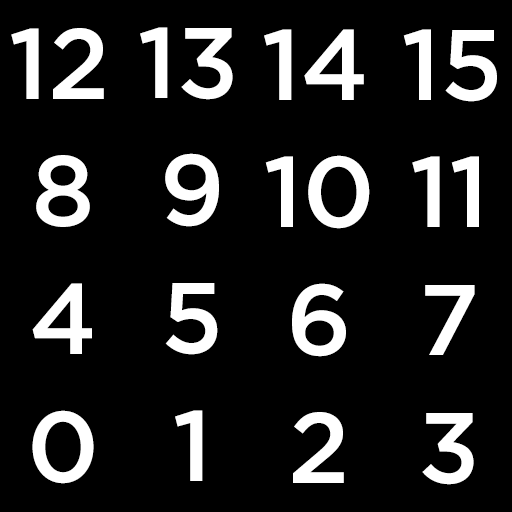
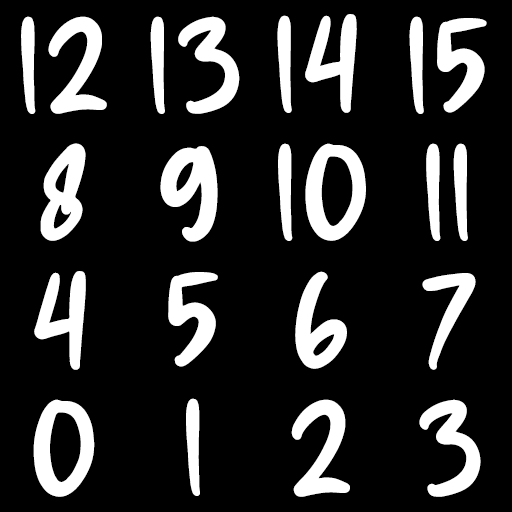
new materials and textures

diff --git a/src/lib/components/cards/Cards.svelte b/src/lib/components/cards/Cards.svelte
@@ -1,12 +1,13 @@
 <script lang="ts">
 	import { T, useTask } from '@threlte/core';
-	import { type ThrelteGltf } from '@threlte/extras';
+	import { useTexture, type ThrelteGltf } from '@threlte/extras';
 	import { cardState, gameState } from '$lib/state.svelte';
 	import { movingBehaviour } from './cardBehaviour';
 	import type { Card } from '$lib/types';
 
 	import ParallaxMaterial from '../materials/paralax/ParallaxMaterial.svelte';
 	import NumbersMaterial from '../materials/numbers/NumbersMaterial.svelte';
+	import CardMaterial from '../materials/card/CardMaterial.svelte';
 
 	import {
 		BatchedMesh,
@@ -35,7 +36,7 @@
 	const instancedBackgrounds = new InstancedMesh(gltf.nodes.Background.geometry, undefined, 100);
 	instancedBackgrounds.instanceMatrix.setUsage(DynamicDrawUsage);
 
-	const instancedNumbers = new InstancedMesh(new PlaneGeometry(0.3, 0.3), undefined, 100);
+	const instancedNumbers = new InstancedMesh(new PlaneGeometry(0.17, 0.17), undefined, 100);
 	instancedNumbers.instanceMatrix.setUsage(DynamicDrawUsage);
 	const numbersFloat = new Float32Array(100);
 	const numbersBufferAttribute = new InstancedBufferAttribute(numbersFloat, 1);
@@ -66,19 +67,24 @@
 		batched.addInstance(4);
 	}
 
+	batched.addGeometry(gltf.nodes.Heart.geometry);
+	for (let i = 0; i < 10; i++) {
+		batched.addInstance(5);
+	}
+
 	useTask(
 		'cards-task',
 		(delta) => {
 			temp = cardState.cards.concat();
-			temp.forEach((card, index, array) => {
+			cardState.cards.forEach((card, index, array) => {
 				card = movingBehaviour(card, delta);
 				if (card.health < 0) {
 					array.splice(index, 1);
 				}
 			});
 
-			cardState.cards = temp;
-			cardsCount = temp.length;
+			//cardState.cards = temp;
+			cardsCount = cardState.cards.length;
 
 			for (let i = 0; i < 50; i++) {
 				batched.setVisibleAt(i, false);
@@ -89,6 +95,7 @@
 			let numbersCount = 0;
 			let deckCount = 0;
 			let discardCount = 0;
+			let heartCount = 30;
 			for (let i = 0; i < cardsCount; i++) {
 				if (temp[i].group === 'deck') deckCount++;
 				if (temp[i].group === 'discard') discardCount++;
@@ -118,9 +125,13 @@
 				}
 				if (temp[i].typeId > 10 && temp[i].typeId !== 12) continue;
 				// no runes or potions
-				dummy.translateX(0.3);
-				dummy.translateY(0.6);
-				dummy.translateZ(0.02);
+				batched.setMatrixAt(heartCount, dummy.matrix);
+				batched.setVisibleAt(heartCount, true);
+				heartCount++;
+
+				dummy.translateX(0.305);
+				dummy.translateY(0.58);
+				dummy.translateZ(0.03);
 				dummy.updateMatrix();
 				instancedNumbers.setMatrixAt(numbersCount, dummy.matrix);
 				numbersFloat.set([temp[i].health], numbersCount);
@@ -139,7 +150,12 @@
 </script>
 
 <T is={instancedBorders} frustumCulled={false}>
-	<T.MeshStandardMaterial />
+	<!-- {#await tex then tex}
+		<T.MeshStandardMaterial map={tex}>
+			<T is={tex} attach="map" flipY={false} />
+		</T.MeshStandardMaterial>
+	{/await} -->
+	<CardMaterial />
 </T>
 
 <T is={instancedBackgrounds} frustumCulled={false}>
@@ -150,4 +166,6 @@
 	<NumbersMaterial />
 </T>
 
-<T is={batched} matrixAutoUpdate={false} frustumCulled={false} />
+<T is={batched} matrixAutoUpdate={false} frustumCulled={false}>
+	<CardMaterial />
+</T>

diff --git a/src/lib/components/cards/Hitboxes.svelte b/src/lib/components/cards/Hitboxes.svelte
@@ -1,6 +1,6 @@
 <script lang="ts">
 	import { T, useTask } from '@threlte/core';
-	import { interactivity } from '@threlte/extras';
+	import { interactivity, useTexture } from '@threlte/extras';
 	import { cardState, gameState } from '$lib/state.svelte';
 	import { positionHand, placeCard, throwCard } from './cardActions';
 	import {
@@ -10,8 +10,12 @@
 		DynamicDrawUsage,
 		Object3D
 	} from 'three';
+	import SplatMaterial from '../materials/splat/SplatMaterial.svelte';
 
 	interactivity();
+
+	let time = $state(0);
+	const circleImage = useTexture('images/circle.png');
 
 	const pointerMoved = (e: any) => {
 		if (gameState.state !== 'playerTurn' || gameState.locked) return;
@@ -109,7 +113,8 @@
 
 	useTask(
 		'hitbox-task',
-		() => {
+		(delta) => {
+			time += delta;
 			if (gameState.state !== 'playerTurn') return;
 			cardState.cards.forEach((card, i) => {
 				dummy.position.set(card.position.x, card.position.y, card.position.z);
@@ -129,12 +134,15 @@
 
 <T.Mesh
 	name="ground"
-	scale={[40, 40, 40]}
+	scale={[25, 25, 25]}
 	rotation.x={-1.57}
 	position.y={-0.1}
+	position.z={-6}
 	onpointermove={pointerMoved}
 	onpointerup={pointerUp}
 >
 	<T.PlaneGeometry />
-	<T.MeshStandardMaterial color="#121212" />
+	{#await circleImage then circleImage}
+		<SplatMaterial blendImage={circleImage} noiseOffset={time / 6} />
+	{/await}
 </T.Mesh>

diff --git a/src/lib/components/models/cards.svelte b/src/lib/components/models/cards.svelte
@@ -1,6 +1,6 @@
 <!--
 Auto-generated by: https://github.com/threlte/threlte/tree/main/packages/gltf
-Command: npx @threlte/gltf@3.0.0-next.10 D:\Node\turtles\static\models\cards.glb --root /models/ --types --printwidth 120 --precision 2 --transform --resolution 1024
+Command: npx @threlte/gltf@3.0.0-next.11 D:\Node\turtles\static\models\cards.glb --root /models/ --types --printwidth 120 --precision 2 --transform --resolution 1024
 -->
 
 <script lang="ts">
@@ -32,6 +32,7 @@ Command: npx @threlte/gltf@3.0.0-next.10 D:\Node\turtles\static\models\cards.glb
       Potion: THREE.Mesh
       Turtle: THREE.Mesh
       Rune: THREE.Mesh
+      Heart: THREE.Mesh
     }
     materials: {}
   }
@@ -74,6 +75,10 @@ Command: npx @threlte/gltf@3.0.0-next.10 D:\Node\turtles\static\models\cards.glb
     <T.Mesh
       geometry={gltf.nodes.Rune.geometry}
       material={gltf.nodes.Rune.material}
+    />
+    <T.Mesh
+      geometry={gltf.nodes.Heart.geometry}
+      material={gltf.nodes.Heart.material}
     />
   {:catch err}
     {@render error?.({ error: err })}

diff --git a/src/lib/components/ui/InfoBox.svelte b/src/lib/components/ui/InfoBox.svelte
@@ -15,7 +15,10 @@
 			style:top="{gameState.hoverPosition.y}px"
 			in:scale|global={{ delay: 500, duration: 200, easing: backOut }}
 		>
-			<p>{data.cardTypes[cardState.hoverCard.typeId.toString()].name}</p>
+			<h3>{data.cardTypes[cardState.hoverCard.typeId.toString()].name}</h3>
+			{#if data.cardTypes[cardState.hoverCard.typeId.toString()].description}
+				<p>{@html data.cardTypes[cardState.hoverCard.typeId.toString()].description}</p>
+			{/if}
 		</div>
 	{/key}
 {/if}
@@ -25,16 +28,21 @@
 		position: absolute;
 		border-radius: 10px;
 		padding: 10px;
-		background: black;
+		background: #111;
 		color: white;
 		pointer-events: none;
+		width: 150px;
 	}
 	#infoBox p {
-		font-size: 30px;
+		text-align: center;
+		font-size: 25px;
+		padding: 0;
+		margin: 5px 0 0 0;
+	}
+	#infoBox h3 {
+		text-align: center;
+		font-size: 32px;
 		padding: 0;
 		margin: 0;
-		font-family: 'Delicious Handrawn', serif;
-		font-weight: 400;
-		font-style: normal;
 	}
 </style>

diff --git a/src/lib/data.ts b/src/lib/data.ts
@@ -1,31 +1,38 @@
 type Data = {
-	cardTypes: { [key: string]: { name: string; health: number; strength: number } };
+	cardTypes: {
+		[key: string]: { name: string; description: string; health: number; strength: number };
+	};
 };
 
 export const data: Data = {
 	cardTypes: {
 		'1': {
-			name: 'player',
+			name: 'you',
+			description: '',
 			health: 5,
 			strength: 1
 		},
 		'2': {
 			name: 'enemy',
+			description: '',
 			health: 10,
 			strength: 1
 		},
 		'10': {
 			name: 'turtle',
+			description: '',
 			health: 1,
 			strength: 1
 		},
 		'11': {
 			name: 'potion',
+			description: 'drink for <span style="color:var(--purple);font-size:35px">+1</span> health',
 			health: 0,
 			strength: 0
 		},
 		'12': {
-			name: 'state Rune',
+			name: 'state rune',
+			description: 'gives turtle <span style="color:var(--green);font-size:35px">+2</span> health',
 			health: 0,
 			strength: 0
 		}

diff --git a/src/lib/components/materials/card/CardMaterial.svelte b/src/lib/components/materials/card/CardMaterial.svelte
@@ -1,0 +1,35 @@
+<script lang="ts">
+	import { T } from '@threlte/core';
+	import { useTexture } from '@threlte/extras';
+	import { RepeatWrapping, ShaderMaterial, Texture, DoubleSide, SRGBColorSpace } from 'three';
+	import fragmentShader from './card-fragment.glsl?raw';
+	import vertexShader from './card-vertex.glsl?raw';
+
+	let map = useTexture('/images/map.png');
+
+	const material = new ShaderMaterial({
+		fragmentShader,
+		vertexShader,
+		uniforms: { map: { value: map } }
+	});
+
+	const mapLoaded = (map: Texture | undefined) => {
+		if (!map) return;
+		map.flipY = false;
+		map.wrapS = RepeatWrapping;
+		map.wrapT = RepeatWrapping;
+		map.anisotropy = 2;
+		//map.colorSpace = SRGBColorSpace;
+		material.uniforms.map.value = map;
+	};
+
+	$effect(() => {
+		mapLoaded($map);
+	});
+
+	/* 	$effect(() => {
+		material.uniforms.number.value = number;
+	}); */
+</script>
+
+<T is={material} />

diff --git a/src/lib/components/materials/splat/SplatMaterial.svelte b/src/lib/components/materials/splat/SplatMaterial.svelte
@@ -1,0 +1,29 @@
+<script lang="ts">
+	import { T } from '@threlte/core';
+	import { ShaderMaterial, Texture } from 'three';
+	import fragmentShader from './splat-fragment.glsl?raw';
+	import vertexShader from './splat-vertex.glsl?raw';
+
+	let {
+		blendImage,
+		noiseOffset
+	}: {
+		blendImage: Texture;
+		noiseOffset: number;
+	} = $props();
+
+	const sm = new ShaderMaterial({
+		uniforms: {
+			blendTexture: { value: blendImage },
+			noiseOffset: { value: noiseOffset }
+		},
+		fragmentShader,
+		vertexShader
+	});
+
+	$effect(() => {
+		sm.uniforms.noiseOffset.value = noiseOffset;
+	});
+</script>
+
+<T is={sm} />

diff --git a/src/lib/state.svelte.ts b/src/lib/state.svelte.ts
@@ -17,7 +17,8 @@ class CardState {
 	selectedCardId = '';
 	hoverCard = $state<Card | null>(null);
 	slots: string[] = ['', '', '', '', '', ''];
-	cards = $state.raw<Card[]>([]);
+	//cards = $state.raw<Card[]>([]);
+	cards: Card[] = [];
 	addCard = (args: Partial<Card>) => {
 		const newId = Math.random().toString(16).slice(2);
 		const defaults: Card = {

diff --git a/src/lib/components/Scene.svelte b/src/lib/components/Scene.svelte
@@ -93,8 +93,7 @@
 	<OrbitControls />
 </T.PerspectiveCamera>
 
-<T.DirectionalLight intensity={1.5} position={[5, 5, 5]} />
-<T.AmbientLight intensity={1.2} />
+<T.AmbientLight intensity={3.5} />
 
 <svelte:window
 	onkeydown={(e: KeyboardEvent) => {

diff --git a/src/lib/components/App.svelte b/src/lib/components/App.svelte
@@ -14,3 +14,18 @@
 
 <InfoBox />
 <Deck />
+
+<style>
+	:global {
+		p,
+		h3 {
+			font-family: 'Delicious Handrawn', serif;
+			font-weight: 400;
+			font-style: normal;
+		}
+	}
+	:root {
+		--green: #4eff98;
+		--purple: #a56eff;
+	}
+</style>

diff --git a/src/lib/components/cards/cardBehaviour.ts b/src/lib/components/cards/cardBehaviour.ts
@@ -12,7 +12,6 @@ const springTick = (
 	stiffness: number,
 	delta: number
 ) => {
-	//const stiffness = 0.3;
 	const damping = 1;
 	const precision = 0.01;
 	const tensionForce = -stiffness * (currentValue - endValue);
